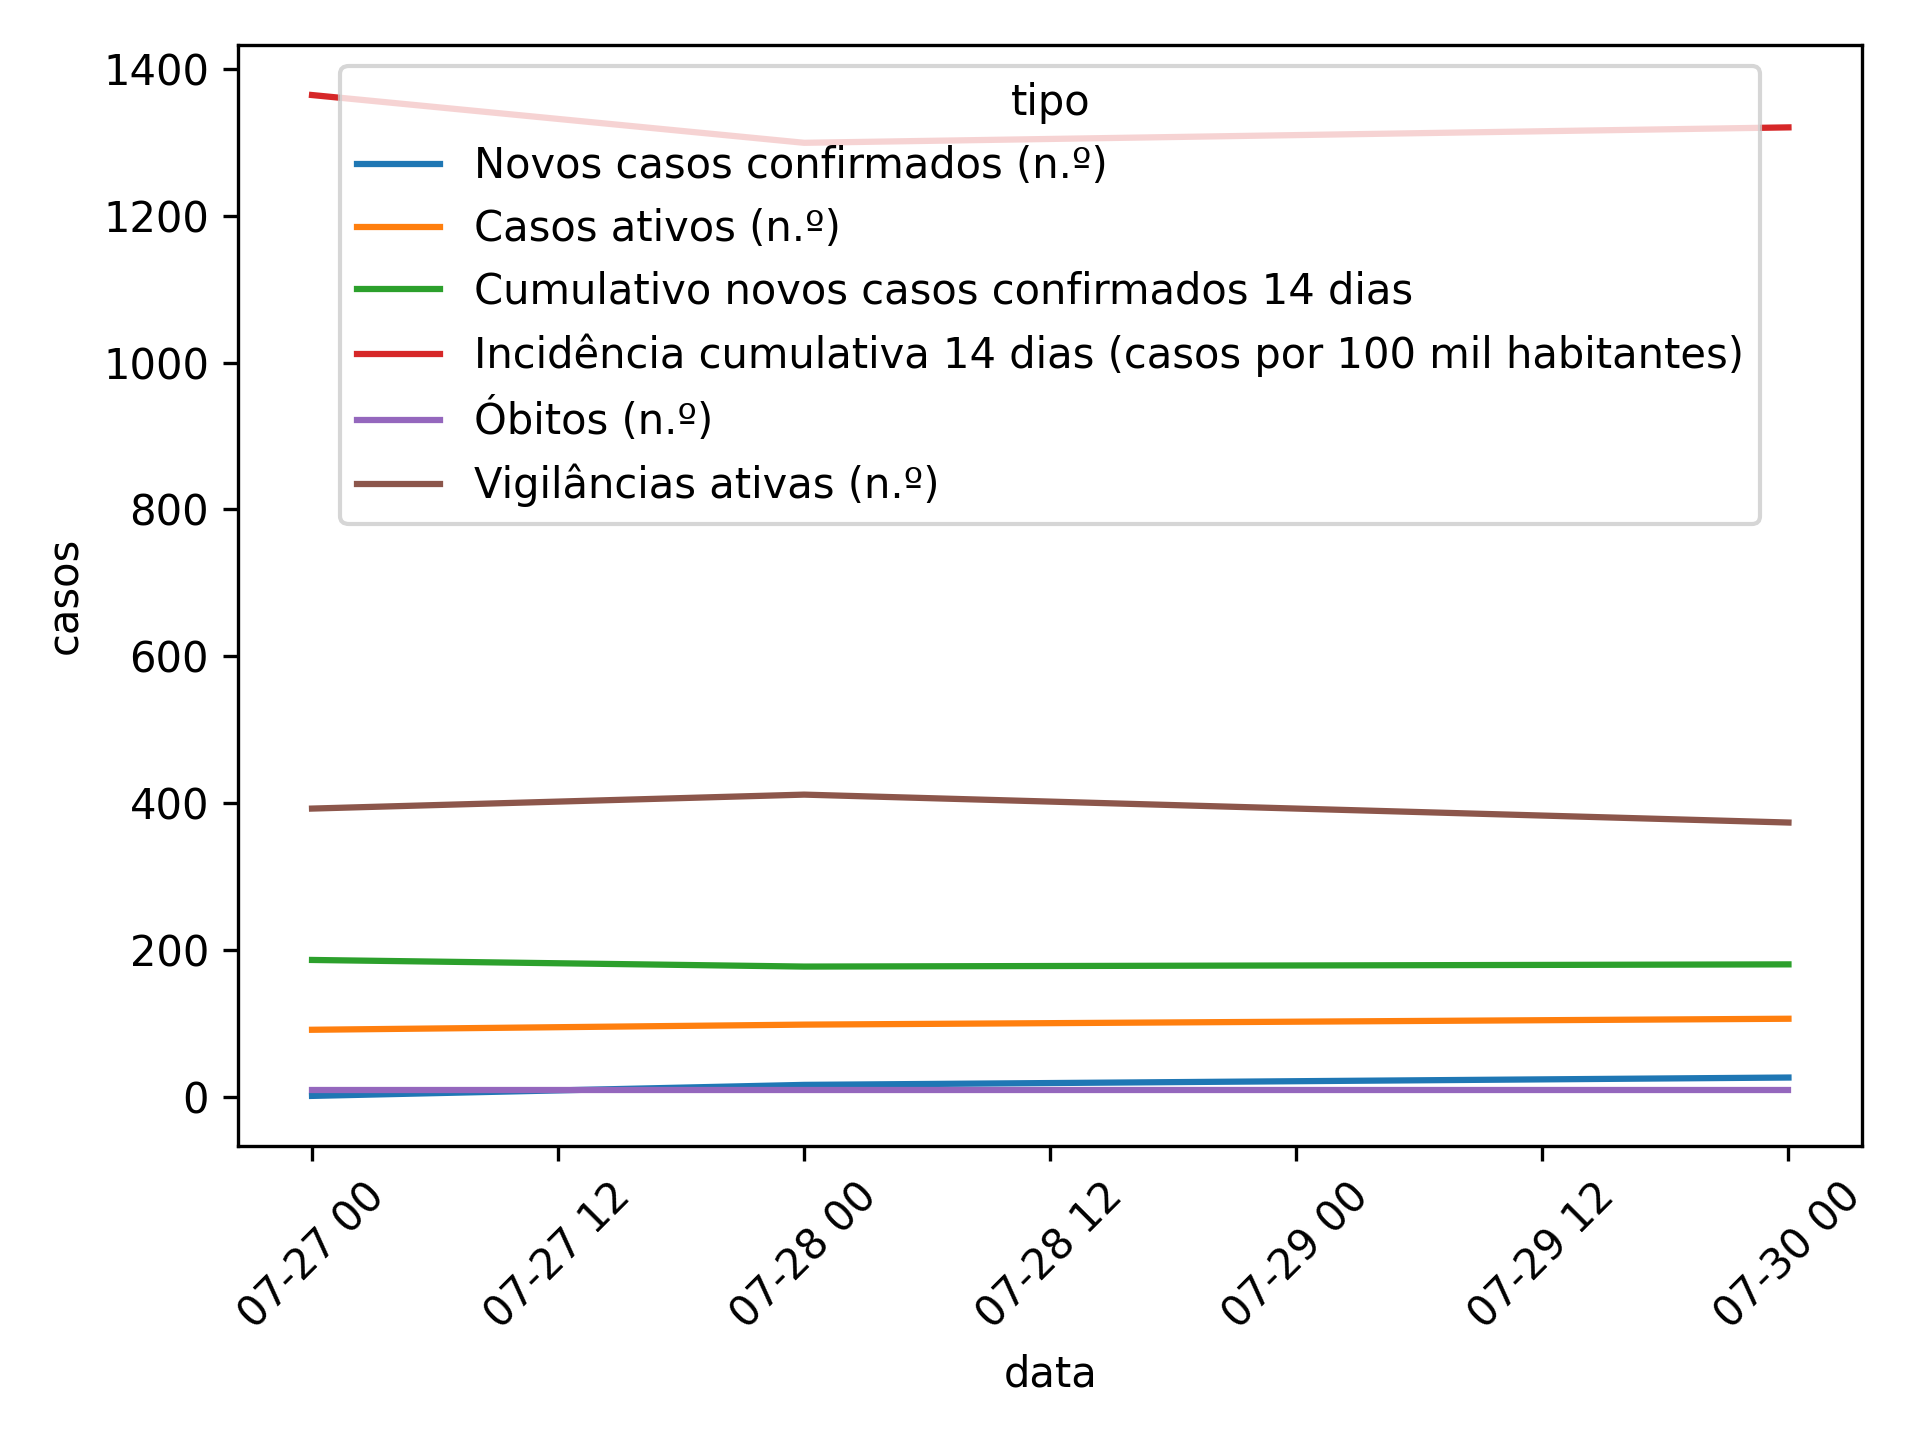
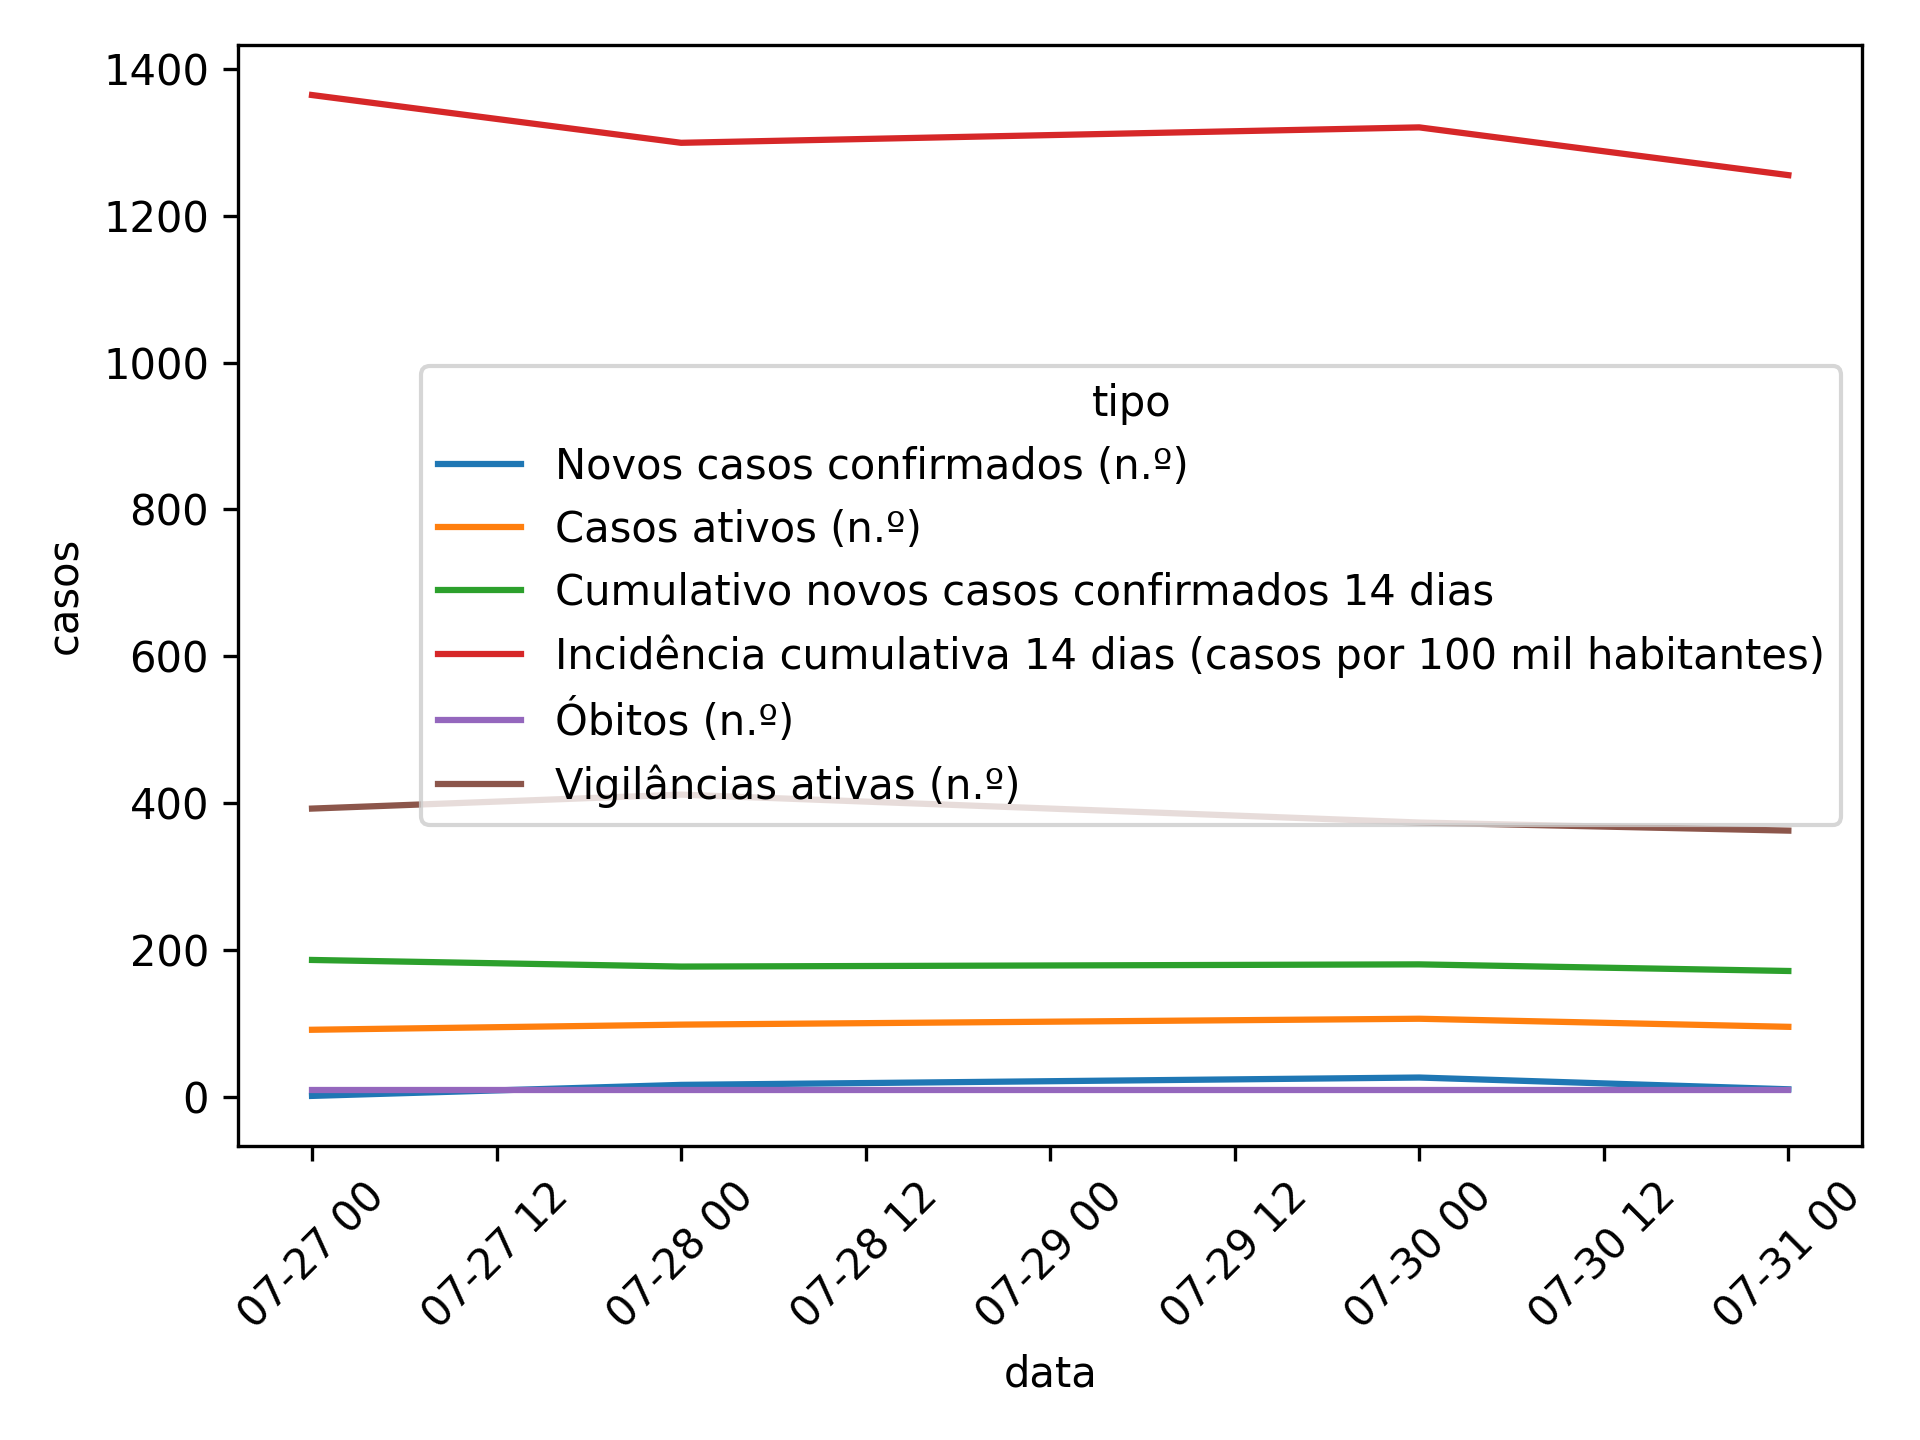
Apply automatic changes

diff --git a/README.md b/README.md
@@ -5,3 +5,4 @@
 | 27-07-2021 |                               2 |                   92 |                                          187 |                                                           1364 |             10 |                        393 |
 | 28-07-2021 |                              17 |                   99 |                                          178 |                                                           1299 |             10 |                        412 |
 | 30-07-2021 |                              27 |                  107 |                                          181 |                                                           1320 |             10 |                        374 |
+| 31-07-2021 |                              11 |                   96 |                                          172 |                                                           1255 |             10 |                        363 |
